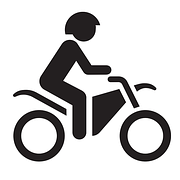
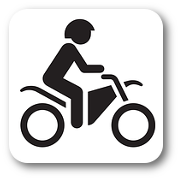
added rounded images and background

Changed region(s): [[0.0278, 0.0278, 0.9722, 0.9722]]

diff --git a/vendor/assets/stylesheets/spree/frontend/landing.css.scss b/vendor/assets/stylesheets/spree/frontend/landing.css.scss
@@ -1,13 +1,20 @@
+#bodylanding{
+  background-image: image-url('bg.jpg');
+  background-repeat: no-repeat;
+  background-size: 100%;
+}
+
 .col-md-12{
   text-align: center;
 }
 
 h1{
-  color: green;
+  color: white;
   font-style: italic;
   font-weight: bolder;
   font-family: serif;
   text-align: center;
+  font-size: 55px;
 }
 
 hr{
@@ -18,6 +25,10 @@ hr{
 
 p{
   font-size: 24px;
+  color: white;
+  background-color: #D2691E;
+  border-radius: 10px;
+  padding: 10px;
 }
 
 .col-md-4{
@@ -26,8 +37,14 @@ p{
 
 .moretext{
   font-size: 22px;
-  color: grey;
+  color: white;
   font-weight: lighter;
+}
+
+#howitworks{
+  background-image: image-url('bg.jpg');
+  background-repeat: no-repeat;
+  background-size: 100%;
 }
 
 #flash{
@@ -35,9 +52,9 @@ p{
   height: 100%;
 }
 
-.glyphicon{
+#glylanding{
   font-size: 50px;
   display: block;
   text-align: center;
-  color: green;
+  color: black;
 }
